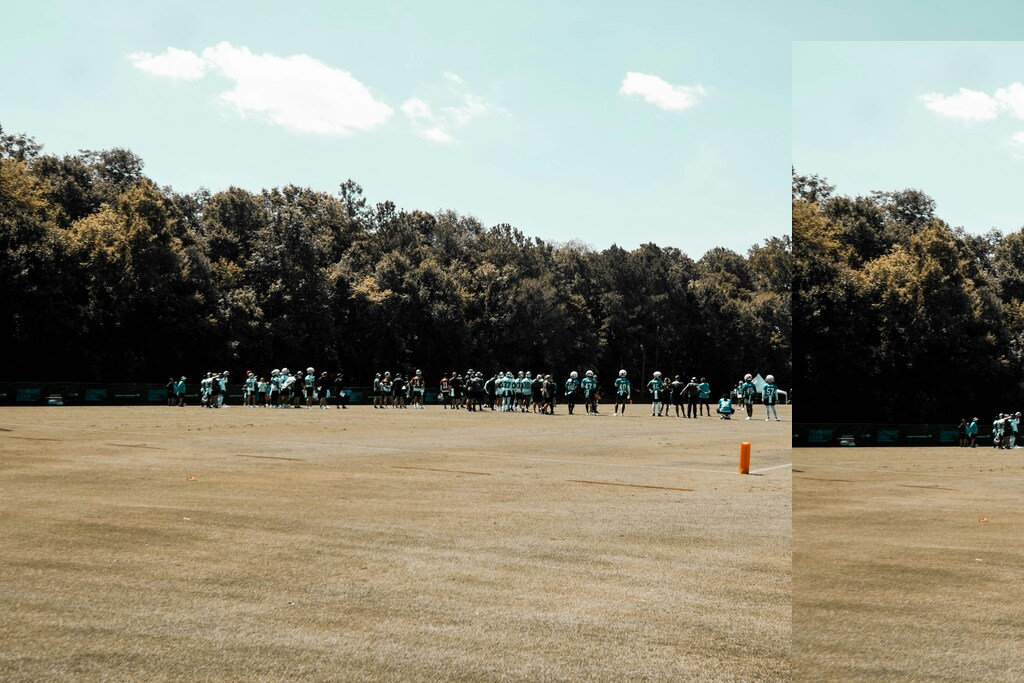
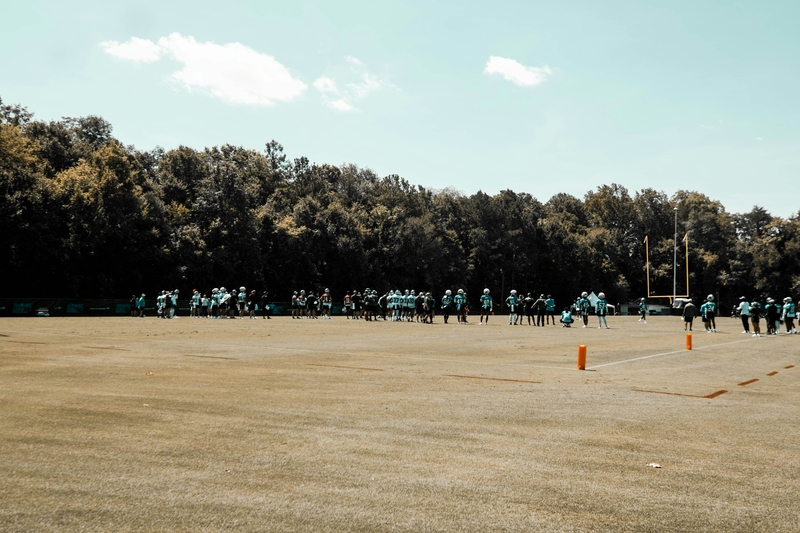
finalize images

Changed region(s): [[0.75, 0.2402, 1.0, 1.0], [0.875, 0.06, 1.0, 0.2402]]

diff --git a/site-plan.html b/site-plan.html
@@ -139,7 +139,7 @@
       </p>
       <p>Images for the Page 2</p>
         <img src="images/rsz_american-football-player.png" alt="Icon of American football player in blue helmet and pads holding a football between his hands.">
-        <img src="images/rsz_1trainingcamp.jpg" alt="Picture of a Carolina Panthers training camp sign.">
+        <img src="images/rsz_panthersplayersonfield.jpg" alt="Picture of a Carolina Panthers training camp sign.">
         <img src="images/rsz_panthersplayersonfield.jpg" alt="Picture of Carolina Panthers players on a football field practicing.">
 
       </ul>
@@ -148,7 +148,7 @@
         Take a trip down memory lane with our Panthers History and Trivia section. In this section you can explore the rich history of the team. Learn about key milestones, memorable games, and iconic moments that have shaped the Panther’s legacy. Test your knowledge with fun trivia questions and impress your fellow fans with your expertise on all things about the Carolina Panthers. 
       </p>
       <p>Images for the Page 3</p>
-        <img src="images/rsz_1panthersnightgame.jpg" alt="A picture of a Carolina Panthers game at night from the top row looking down at the field.">
+        <img src="images/1panthernight.jpg" alt="A picture of a Carolina Panthers game at night from the top row looking down at the field.">
         <img src="images/rsz_charlotte.jpg" alt="Landscape view of the Charlotte skyline of buildings.">
         <img src="images/rsz_trivia.png" alt="Yellow lightbulb with a question mark on the middle of it.">
 
